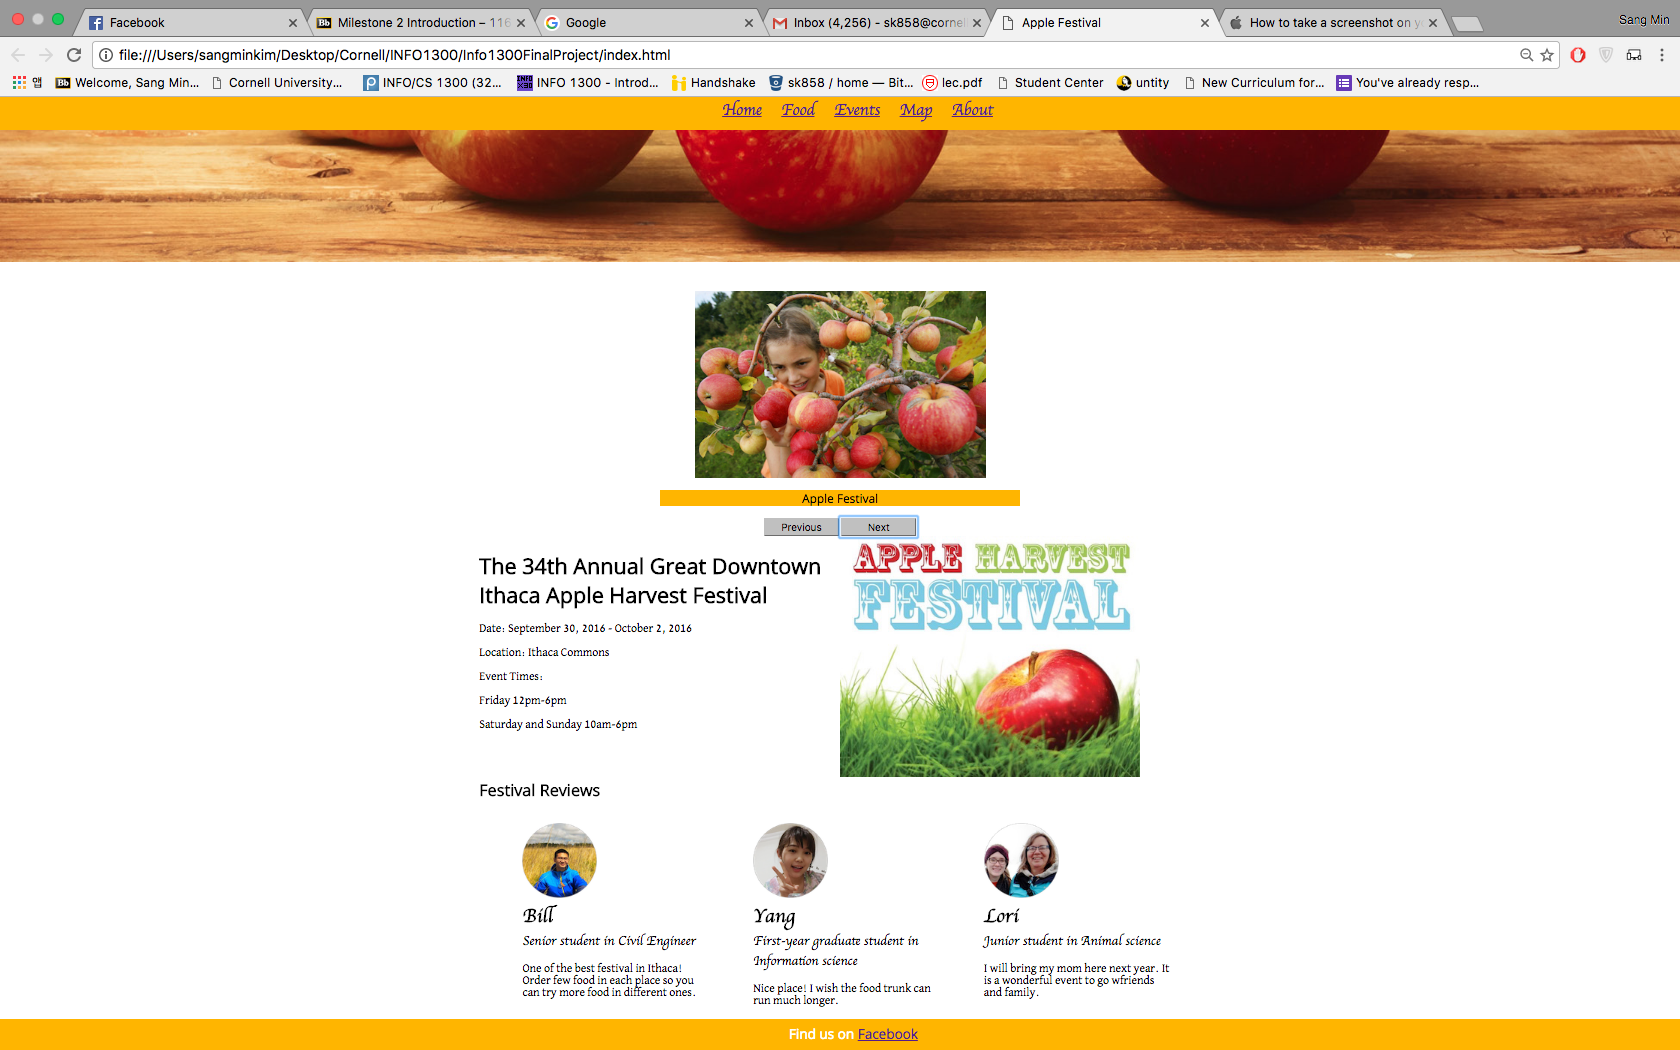
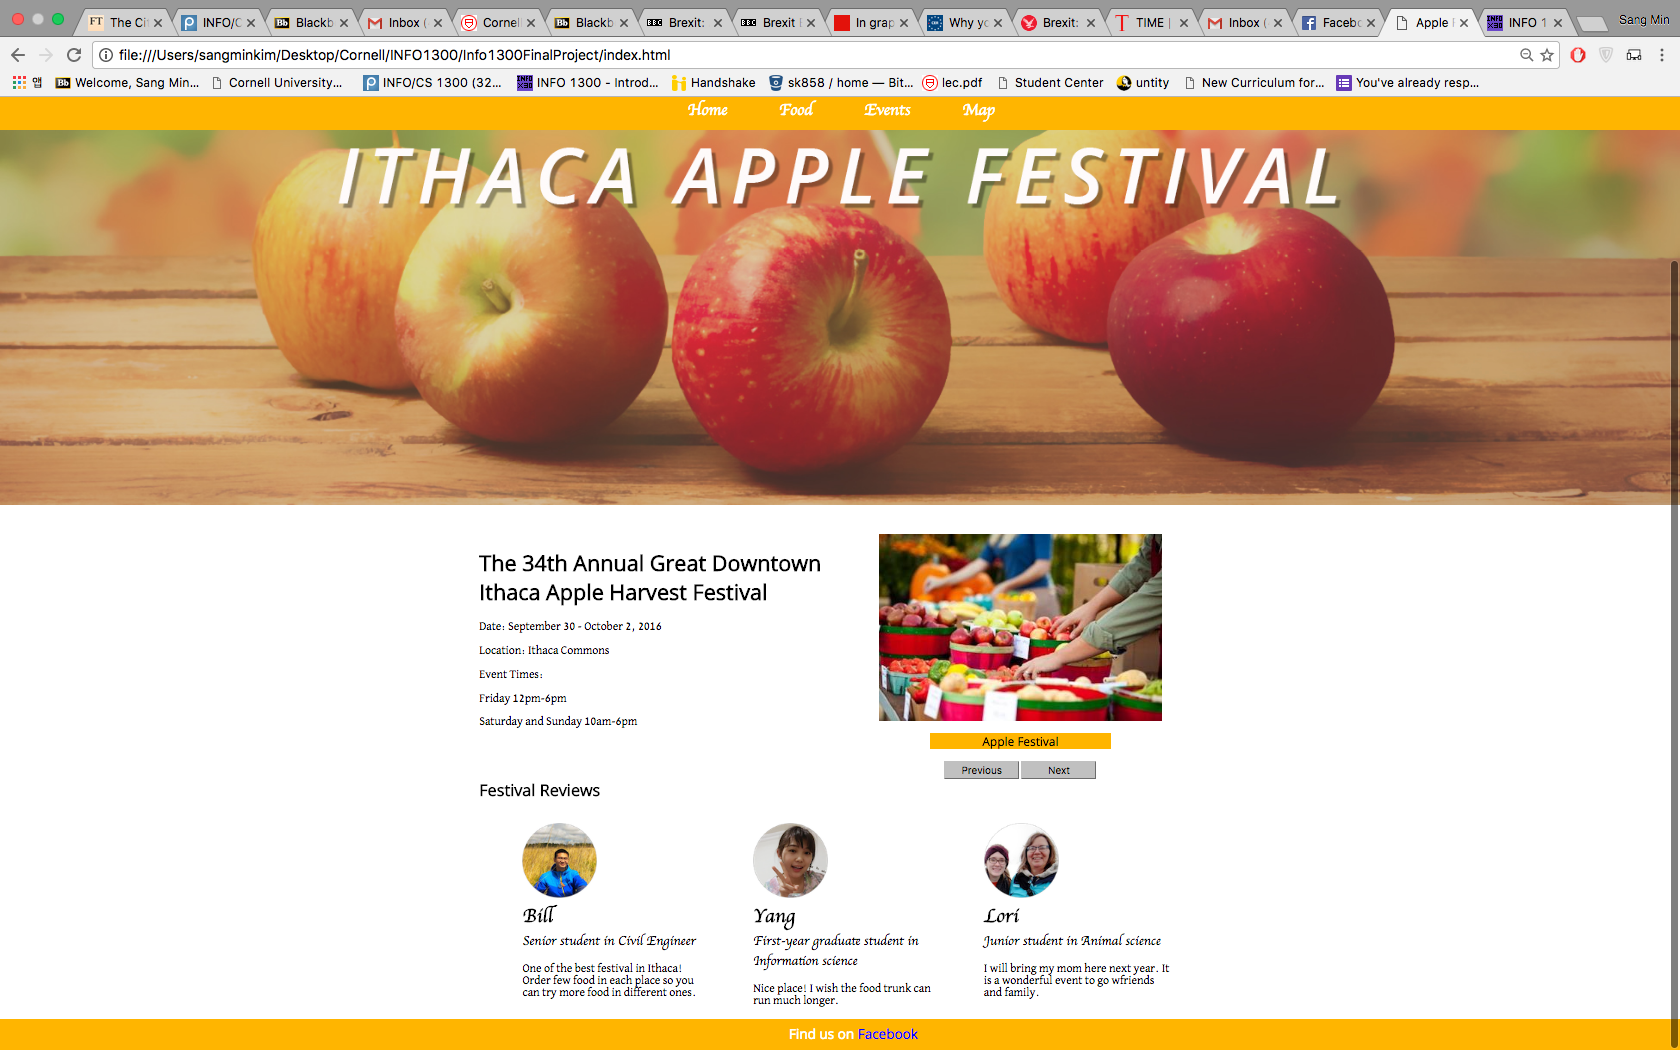
Really final fix

diff --git a/styles/style.css b/styles/style.css
@@ -30,6 +30,7 @@ p {
 
 a:link {
     text-decoration: none;
+    color: #ffffff;
 }
 
 a:visited {
